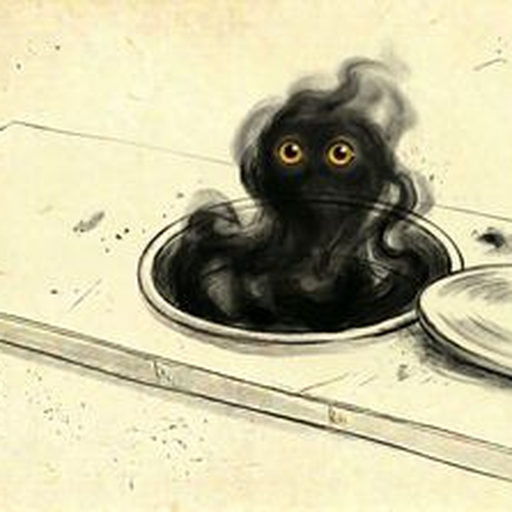
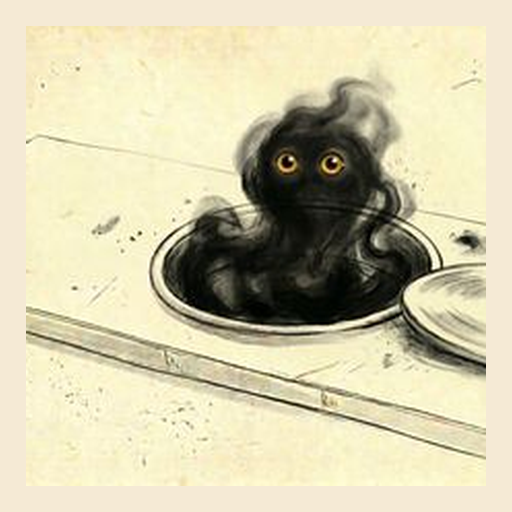
Add files via upload

diff --git a/index.html b/index.html
@@ -10,8 +10,11 @@
 <meta name="apple-mobile-web-app-capable" content="yes">
 <meta name="apple-mobile-web-app-status-bar-style" content="default">
 <meta name="apple-mobile-web-app-title" content="Frutti">
-<link rel="apple-touch-icon" href="apple-touch-icon.png">
+<link rel="apple-touch-icon" sizes="180x180" href="apple-touch-icon.png">
+<link rel="apple-touch-icon" sizes="167x167" href="apple-touch-icon-167.png">
+<link rel="apple-touch-icon" sizes="152x152" href="apple-touch-icon-152.png">
 <link rel="icon" type="image/png" sizes="192x192" href="icon-192.png">
+<link rel="icon" type="image/png" sizes="512x512" href="icon-512.png">
 <link href="https://fonts.googleapis.com/css2?family=Noto+Serif+JP:wght@400;700&family=Zen+Kaku+Gothic+New:wght@400;500;700&display=swap" rel="stylesheet">
 <style>
 *,*::before,*::after{box-sizing:border-box;margin:0;padding:0}